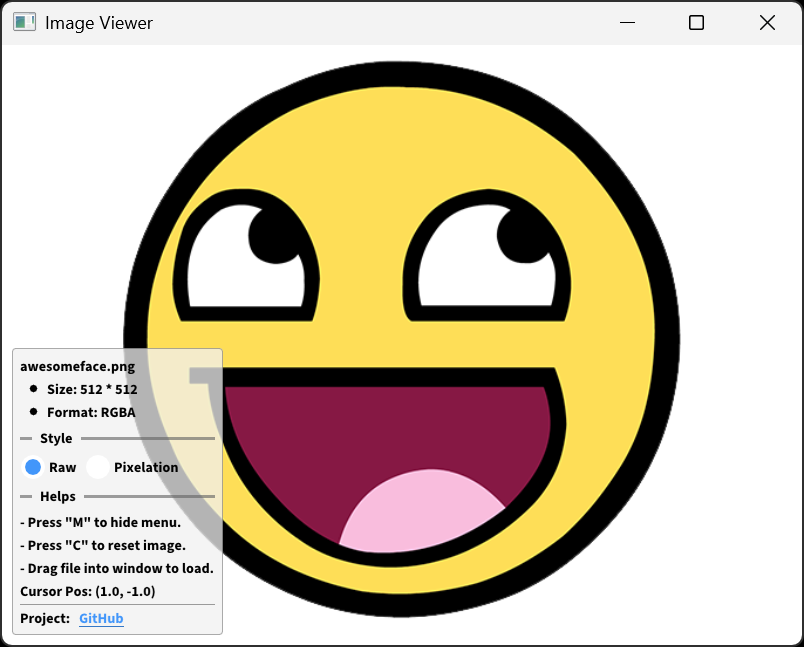
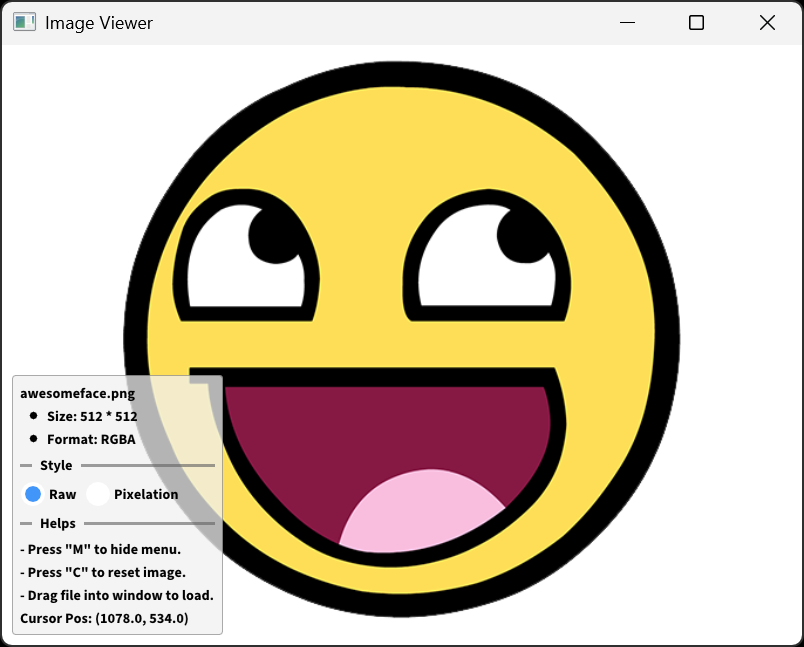
feat(sandbox): remove link-button on `image_viewer`'s interface

Changed region(s): [[0.0, 0.5255, 0.2799, 0.9892]]

diff --git a/sandbox/image_viewer/main.cc b/sandbox/image_viewer/main.cc
@@ -271,10 +271,6 @@ public:
                 ImGui::Text("Cursor Pos: (%.1f, %.1f)", io.MousePos.x, io.MousePos.y);
             else
                 ImGui::Text("Cursor Pos: <invalid>");
-
-            ImGui::Separator();
-            ImGui::Text("Project:"); ImGui::SameLine();
-            ImGui::TextLinkOpenURL("GitHub", "https://github.com/anpydx/cabin");
         }
         ImGui::End();
 
